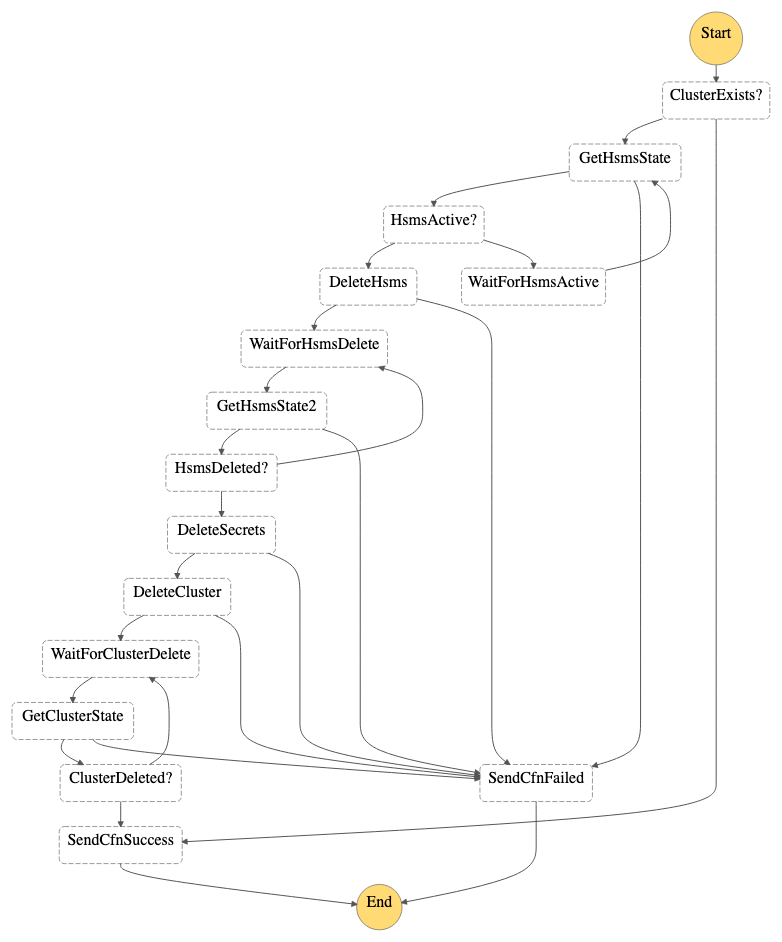
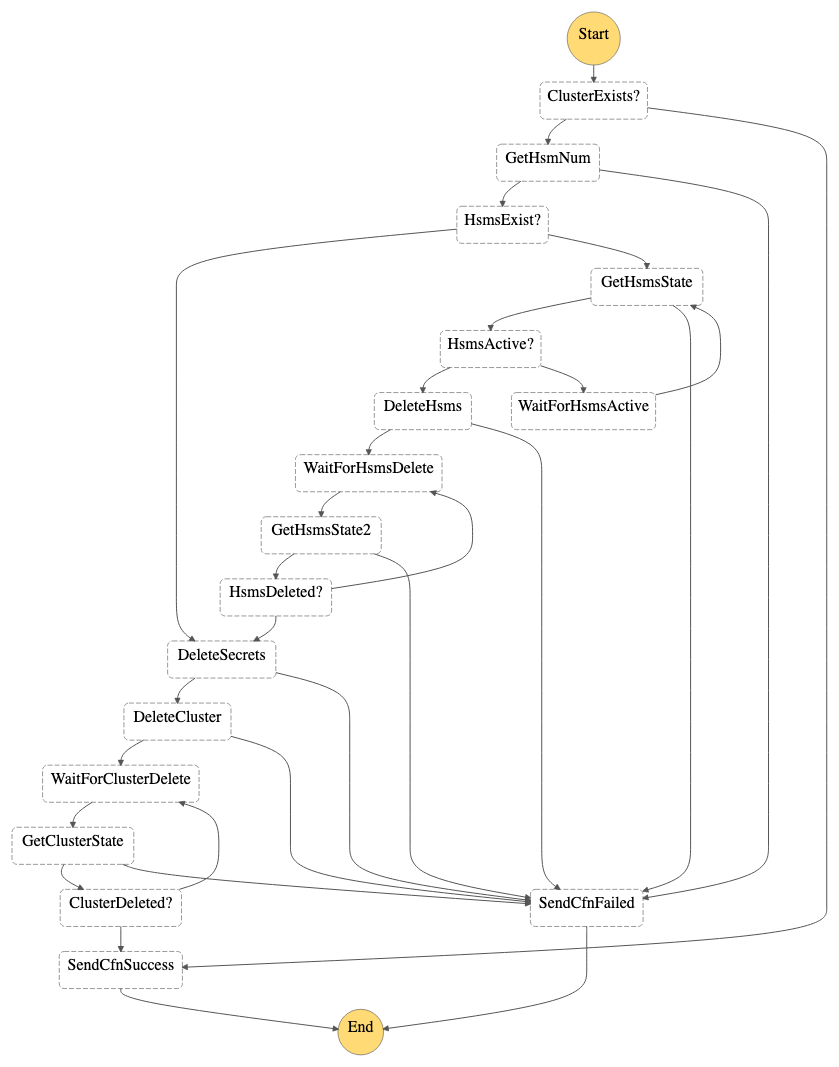
support 0 pHsmsPerSubnet

diff --git a/README.md b/README.md
@@ -226,8 +226,8 @@ aws acm-pca get-certificate --certificate-authority-arn <CA arn> --certificate-a
 |---------|--------|-----------|-------|---------------------------|
 |`pSystem`|Optional|Used as a prefix in the names of many of the newly created cloud resources. You normally do not need to override the default value.|`cloudhsm`|No|
 |`pEnvPurpose`|Optional|Identifies the purpose for this particular instance of the stack. Used as part of the prefix in the names of many of the newly created resources. Enables you to create and more easily distinguish resources of multiple stacks in the same AWS account. For example, `1`, `2`, `test1`, `test2`, etc.|`1`|No|
-|`pSubnets`|Required|List of subnets to associate with the CloudHSM cluster. Subnets must exists within the same VPC. Only one subnet per availability zone (AZ) may be specified.<br><br>If you're using an AWS region that proivides access to more than 3 AZs, ensure that you supply subnet IDs associated with AZs in which CloudHSM is available. See [Determining regions and AZs in which CloudHSM is available](#determining-regions-and-azs-in-which-cloudhsm-is-available) for details.<br><br>Since CloudHSM does not support making changes to the  to the list of subnets after a cluster is created, this template does not support making changes to the list of subnets during stack updates.|None|No|
-|`pHsmsPerSubnet`|Optional|Number of HSMs to create per subnet.<br><br>If you intend to connect a KMS custom key store to the cluster, a minimum of 2 HSMs is required. In the simplest case, to support a KMS custom key store, you could specify one subnet in `pSubnets` and `2` for `pHsmsPerSubnet`.<br><br>See the [AWS CloudHSM Quotas](https://docs.aws.amazon.com/cloudhsm/latest/userguide/limits.html) for the maximum total HSMs you can create per cluster.<br><br>You can modify this parameter during a stack update to either grow or shrink the number of HSMs.|`1`|Yes|
+|`pSubnets`|Required|List of subnets to associate with the CloudHSM cluster. Subnets must exists within the same VPC. Only one subnet per availability zone (AZ) may be specified.<br><br>If you're using an AWS region that provides access to more than 3 AZs, ensure that you supply subnet IDs associated with AZs in which CloudHSM is available. See [Determining regions and AZs in which CloudHSM is available](#determining-regions-and-azs-in-which-cloudhsm-is-available) for details.<br><br>Since CloudHSM does not support making changes to the  to the list of subnets after a cluster is created, this template does not support making changes to the list of subnets during stack updates.|None|No|
+|`pHsmsPerSubnet`|Optional|Number of HSMs to create per subnet.<br><br>If you intend to connect a KMS custom key store to the cluster, a minimum of 2 HSMs is required. In the simplest case, to support a KMS custom key store, you could specify one subnet in `pSubnets` and `2` for `pHsmsPerSubnet`.<br><br>See the [AWS CloudHSM Quotas](https://docs.aws.amazon.com/cloudhsm/latest/userguide/limits.html) for the maximum total HSMs you can create per cluster.<br><br>You can modify this parameter during a stack update to either grow or shrink the number of HSMs.<br><br>During a stack update, you can specify `0` to delete all HSMs in the cluster without deleting the cluster. See [Saving costs by deleting HSMs](#saving-costs-by-deleting-hsms).|`1`|Yes|
 |`pHsmType`|Optional|The type of HSM to use in the cluster. Currently the only supported value is `hsm1.medium`|`hsm1.medium`|No|
 |`pUseExternalPkiProcess`|Optional|Select `true` if you want to use your own PKI process to issue a cluster certificate based on the CSR obtained from the cluster creation process. By default, the stack uses AWS Private CA to create a root CA and issue the cluster certificate. See [Determine whether or not you want to use your own PKI process for issuing the cluster certificate](#5-determine-whether-or-not-you-want-to-use-your-own-pki-process-for-issuing-the-cluster-certificate) to help you understand if this option applies to you.|`false`|Yes|
 |`pExternallyProvidedCertsReady`|Optional|Select `true` only if you selected `true` for `pUseExternalPkiProcess` and you've made the necessary certificates available per the process outlined in [Using your own PKI process](#using-your-own-pki-process). This parameter is only processed during stack update operations.<br><br>After you've successfully completed an update based on using your own PKI process, you may leave this parameter set to `true` for subsequent stack updates. The cluster and CA certificates will be processed only once.|`false`|Yes|
@@ -460,6 +460,28 @@ The CloudFormation template supports the ability to create a new CloudHSM cluste
 If you're creating a new cluster from a backup with which a KMS custom key store was previously connected, ensure that the backup you select contains the KMS key data that you require to be present in your newly created cluster.
 
 Since a CloudHSM backup retains the state of a cluster, creating a new cluster using a backup does not require initialization and activation of the newly created cluster. As part of the stack creation process and after the cluster is restored from the specified backup, the number of HSMs per subnet that you specified when creating the new stack will be created.
+
+### Saving costs by deleting HSMs
+
+If you have a non-production cluster that doesn't need to be used at all times, you can perform a stack update to delete all of the HSMs without deleting the cluster. Later, when you need to use the cluster, you can perform a stack update to recreate the number of HSMs of interest. By retaining the original cluster, you can avoid the process of creating a new cluster including issuing a cluster certificate.
+
+#### Delete all HSMs without deleting a cluster
+
+To delete all HSMs without deleting a cluster, set the `pHsmsPerSubnet` parameter to `0` during a stack update. 
+
+Since CloudHSM makes a backup of the cluster when an HSM is removed, you'll have an up-to-date cluster backup that will be used when you create new HSMs. See [Managing AWS CloudHSM backups](https://docs.aws.amazon.com/cloudhsm/latest/userguide/manage-backups.html.)
+
+#### Create HSMs in an empty cluster
+
+When you need to use the cluster again, during a stack update, you can set the `pHsmsPerSubnet` parameter to the desired number of HSMs.
+
+When the new HSMs are added to an CloudHSM cluster that doesn't have any HSMs, CloudHSM will use the most recent cluster backup as the basis for the newly created HSMs.
+
+#### Ensure application client configurations are updated
+
+Note that when you create HSMs, the IP addresses of the HSMs may be different from the original set of HSMs. Consequently, you'll need to ensure that application client configurations are updated to reference at least one of the newly created HSMs. See [Connect the client SDK to the AWS CloudHSM cluster](https://docs.aws.amazon.com/cloudhsm/latest/userguide/cluster-connect.html#connect-how-to) for information on configuring application clients to work with your cluster.
+
+The CloudFormation template automatically updates the EC2 client's configuration when HSMs are created and deleted.
 
 ## Deleting the stack
 

diff --git a/TESTING.md b/TESTING.md
@@ -33,6 +33,7 @@ Ensure that you test the template in multiple AWS Regions including `us-east-1` 
 * Change number of HSMs per subnet to 3
 * Vary the number of subnets
 * Use AMI ID instead of default AWS Systems Manager parameter store parameter
+* Validate that the `ClusterId` attribute is set properly.
 
 #### Select CloudHSM client or CLI package
 
@@ -68,7 +69,6 @@ Attempt to create a stack...
   * Specify a single subnet/AZ that is not supported.
   * Specify multiple subnets/AZs, but with only one that is not supported.
 * Test both automated rollbacks and preserve resources upon creation failure.
-
 
 In all failure scenarios, assess the extent to which resources are rolled back and a stack deletion causes deletion of resources.
 
@@ -116,6 +116,7 @@ Confirm that all resources have been deleted except for:
 * Decrease the number of HSMs per subnet.
 * Stop the EC2 client (do not terminate) prior to changing the number of HSMs per subnet.
 * Set the number of HSMs per subnet to 0.
+  * After successfully deleting all HSMs, apply another update with HSMs per subnet > 0.
 
 ### Updating the EC2 client subnet
 

diff --git a/CHANGELOG.md b/CHANGELOG.md
@@ -1,6 +1,11 @@
 # CHANGELOG
 
-## May 2023
+## May 2023 - v2.1
+
+* Enable stack update to delete all HSMs yet retain the cluster. Set the `pHsmsPerSubnet` to `0` during a stack update to delete all HSMs. This technique can reduce costs of operating non-production clusters.
+* When deleting a stack, avoid waiting for the status of HSMs when no HSMs exist.
+
+## May 2023 - v2.0
 
 ### Overall enhancements
 
@@ -32,6 +37,6 @@ Error handling and reporting has been improved across all stack actions.
 * Updated all Lambda functions use Python 3.10.
 * Removed `vpc.yaml`. 
 
-## October 2021
+## October 2021 - v1.0
 
 Original version.
